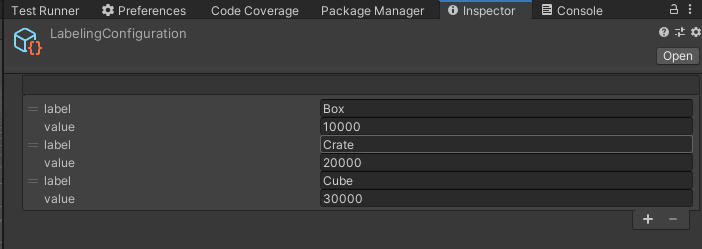
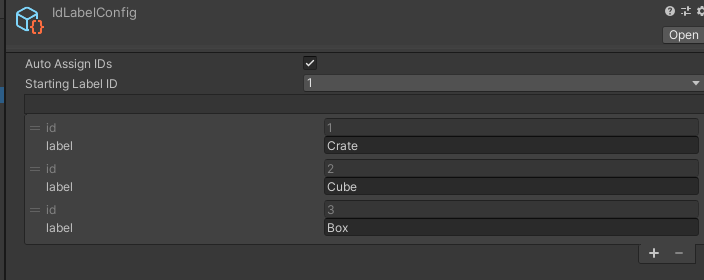
Fixing sample scene and steps

Changed region(s): [[0.0, 0.0, 1.0, 1.0]]

diff --git a/com.unity.perception/Documentation~/GettingStarted.md b/com.unity.perception/Documentation~/GettingStarted.md
@@ -24,29 +24,27 @@ This step can be skipped for HDRP projects.
 
 ## Step 4: Create labeled objects
 1. Create a cube by right-clicking in the Hierarchy window, select 3D Object -> Cube 
-1. Create 2 more cubes this way
-1. Change the names of the cubes to Cube, Box, and Crate
-1. Position the Cubes in front of the main Camera
+2. Create 2 more cubes this way
+3. Change the names of the cubes to Cube, Box, and Crate
+4. Position the Cubes in front of the main Camera
 
 <img src="images/CompletedScene.PNG" align="middle"/>
 
-1. On each cube, from the inspector panel add a **Labeling** component 
+5. On each cube, from the inspector panel add a **Labeling** component 
 	1. Click the **+**
 	2. In the text field add the name of the object i.e Crate. This will be the label used in the semantic segmentation images 
+
 <img src="images/LabeledObject.PNG" align="middle"/>
 
-1. In the Project panel right click -> Perception -> Labeling Configuration
-1. Select the new **Labeling Configuration**
+6. In the Project panel right click -> Perception -> Labeling Configuration
+7. Select the new **ID Label Config**
 	1. Click the **+**
 	2. In the label text field add the same text that the Label script contains on the objects created in the scene (i.e Cube, Box, Crate)
-	3. Add a numerical value to the value field 
 		
-		Make sure the labels all have different values, for this example use increments of 10,000 to ensure they show up as very distinct colors in the segmentation images
-
 <img src="images/LabelingConfigurationFinished.PNG" align="middle"/>
 
-1. Select the Main Camera in the Hierarchy panel 
-1. In the Perception Camera attach the Labeling Configuration created in previous step 
+8. Select the Main Camera in the Hierarchy panel 
+9. In the Perception Camera attach the ID Label Config created in previous step for each ID Label config 
 
 <img src="images/MainCameraConfig.PNG" align="middle"/>
 
